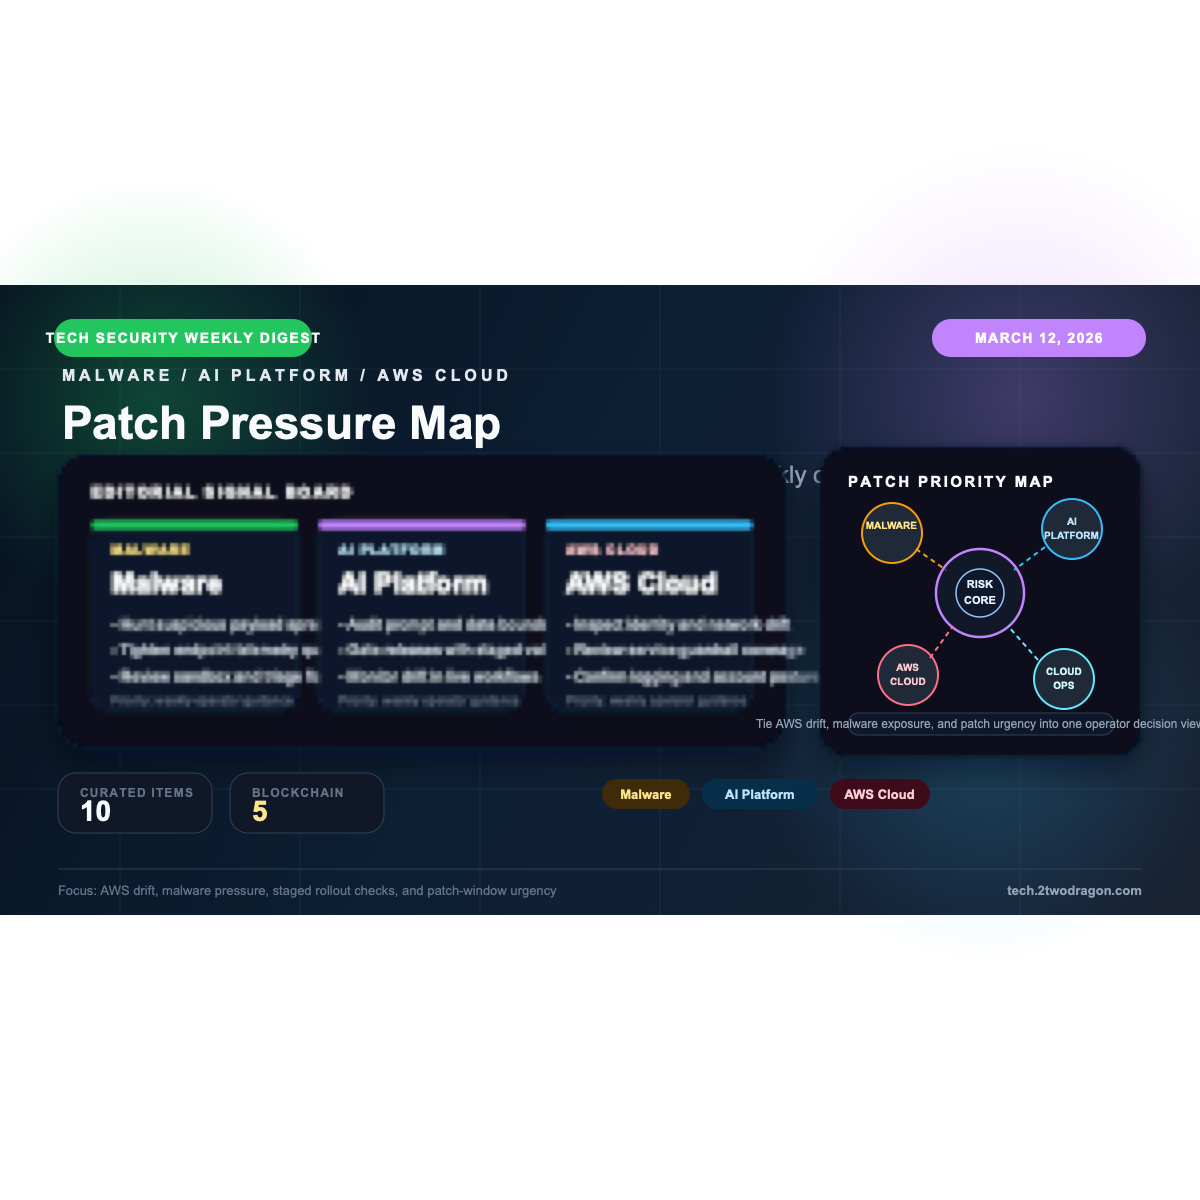
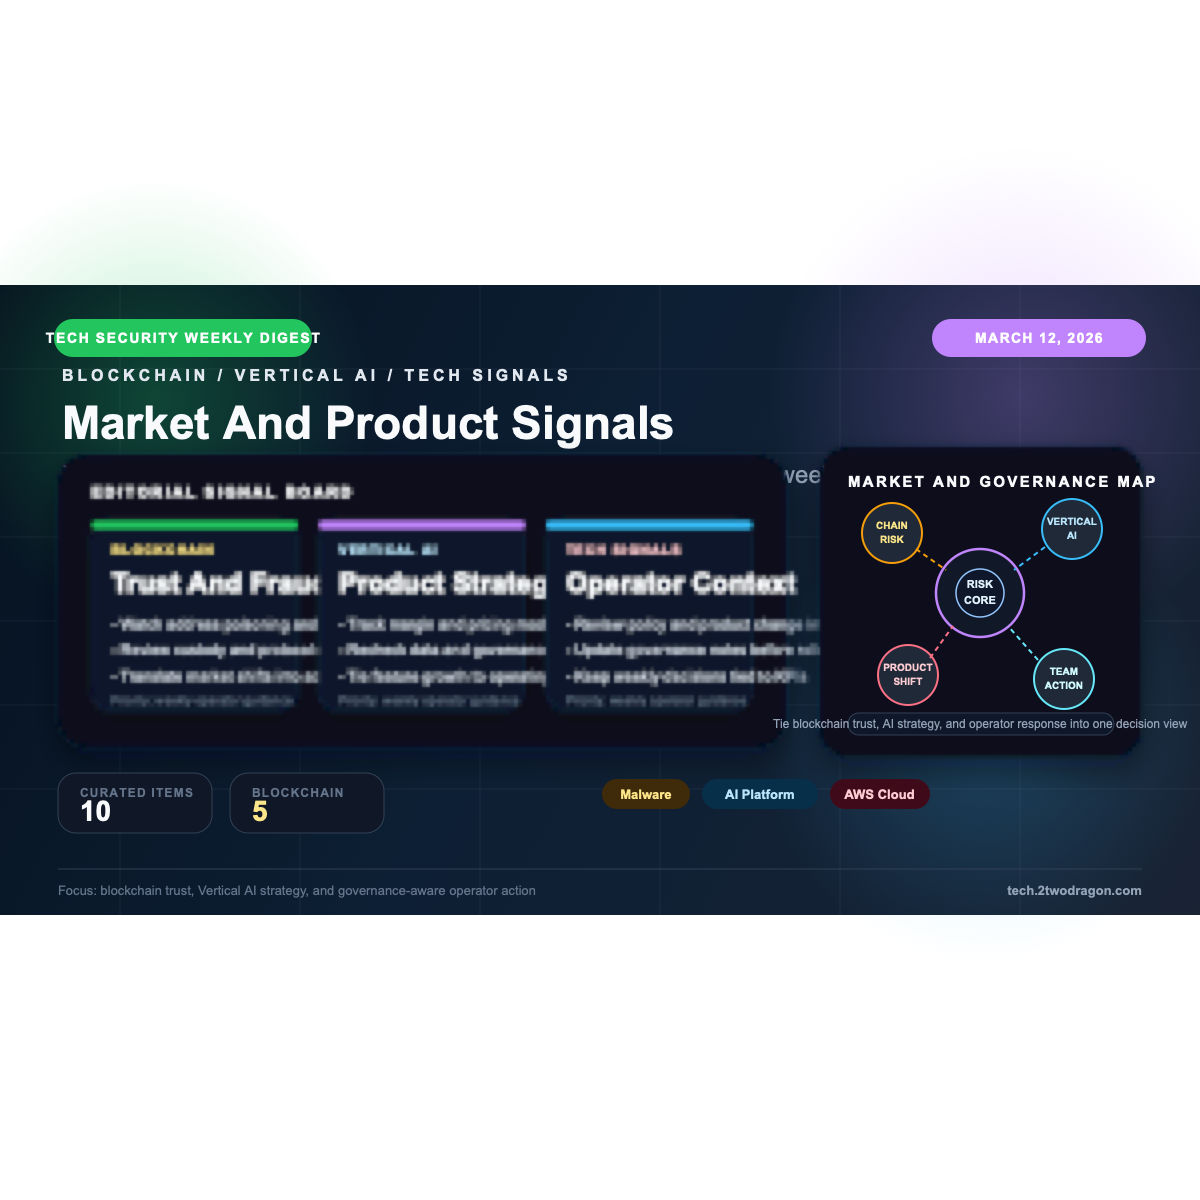
fix: align March 12 digest title and cover story

diff --git a/_posts/2026-03-12-Tech_Security_Weekly_Digest_AI_Malware_AWS_Patch.md b/_posts/2026-03-12-Tech_Security_Weekly_Digest_AI_Malware_AWS_Patch.md
@@ -1,24 +1,24 @@
 ---
 layout: post
-title: "기술·보안 주간 다이제스트: 블록체인, AI, 기술 동향"
+title: "기술·보안 주간 다이제스트: 블록체인 신뢰 리스크, Vertical AI 전략, 기술 동향"
 date: 2026-03-12 21:46:13 +0900
 categories: [security, devsecops]
-tags: [Security-Weekly, DevSecOps, Cloud-Security, Weekly-Digest, 2026, Rust, AI, Blockchain, DeFi]
-excerpt: "2026년 03월 12일 주요 보안/기술 뉴스 10건 - Rust, AI, Blockchain"
-description: "2026년 03월 12일 보안 뉴스: Cointelegraph, CoinDesk 등 10건. Rust, AI, Blockchain, DeFi 관련 DevSecOps 실무 위협 분석 및 대응 가이드."
-keywords: [Security-Weekly, DevSecOps, Cloud-Security, Weekly-Digest, 2026, Rust, AI, Blockchain]
+tags: [Security-Weekly, DevSecOps, Cloud-Security, Weekly-Digest, 2026, Blockchain, Vertical-AI, Tech, DeFi]
+excerpt: "2026년 03월 12일 주요 보안/기술 뉴스 10건 - Blockchain, Vertical AI, Tech"
+description: "2026년 03월 12일 보안 뉴스: Cointelegraph, CoinDesk, GeekNews 등 10건. 블록체인 시장 동향, Vertical AI, 기술 이슈를 운영 리스크 기준으로 정리한 DevSecOps 실무 가이드."
+keywords: [Security-Weekly, DevSecOps, Cloud-Security, Weekly-Digest, 2026, Blockchain, Vertical-AI, Tech]
 author: Twodragon
 comments: true
 image: /assets/images/2026-03-12-Tech_Security_Weekly_Digest_AI_Malware_AWS_Patch.svg
-image_alt: "Tech Security Weekly Digest March 12 2026 Rust AI Blockchain"
+image_alt: "Tech Security Weekly Digest March 12 2026 Blockchain Vertical AI Tech"
 toc: true
 ---
 
 {% include ai-summary-card.html
-  title='기술·보안 주간 다이제스트: 블록체인, AI, 기술 동향'
+  title='기술·보안 주간 다이제스트: 블록체인 신뢰 리스크, Vertical AI 전략, 기술 동향'
   categories_html='<span class="category-tag security">보안</span> <span class="category-tag devsecops">DevSecOps</span>'
-  tags_html='<span class="tag">Security-Weekly</span> <span class="tag">DevSecOps</span> <span class="tag">Cloud-Security</span> <span class="tag">Weekly-Digest</span> <span class="tag">2026</span> <span class="tag">Rust</span> <span class="tag">AI</span> <span class="tag">Blockchain</span>'
-  highlights_html='<li><strong>포인트 1</strong>: 2026년 03월 12일 주요 보안/기술 뉴스 10건 - Rust, AI, Blockchain</li> <li><strong>포인트 2</strong>: 실무 관점에서 영향 범위와 우선순위를 함께 점검해야 합니다</li> <li><strong>포인트 3</strong>: 운영 절차와 검증 기준을 문서화해 재현 가능한 적용 체계를 유지해야 합니다</li>'
+  tags_html='<span class="tag">Security-Weekly</span> <span class="tag">DevSecOps</span> <span class="tag">Cloud-Security</span> <span class="tag">Weekly-Digest</span> <span class="tag">2026</span> <span class="tag">Blockchain</span> <span class="tag">Vertical-AI</span> <span class="tag">Tech</span> <span class="tag">DeFi</span>'
+  highlights_html='<li><strong>포인트 1</strong>: 블록체인 정책·시장 뉴스와 Vertical AI 논의가 함께 등장해 제품 전략과 운영 통제의 동시 점검이 필요합니다</li> <li><strong>포인트 2</strong>: 단기적으로는 지갑/계정 보호, 서드파티 의존성 점검, 정책 변화 모니터링이 우선순위입니다</li> <li><strong>포인트 3</strong>: 기술 뉴스는 보안 이슈 자체보다 향후 운영 모델과 거버넌스 변화의 선행지표로 해석해야 합니다</li>'
   period='2026-03-12 (24시간)'
   audience='보안/클라우드/플랫폼 엔지니어 및 기술 의사결정자'
 %}
@@ -58,16 +58,16 @@ toc: true
 
 ## 경영진 브리핑
 
-- 이번 주기는 취약점 대응과 탐지 체계 운영이 동시에 요구되며, 노출 자산 우선순위 기반의 실행이 필요합니다.
-- 단기적으로는 패치 SLA 준수, 고위험 자산 모니터링, 탐지 룰 최신화가 가장 높은 개선 효과를 제공합니다.
+- 이번 주기는 직접적인 취약점 경보보다 블록체인 시장 변화와 AI 제품 전략 변화가 운영 통제에 미치는 영향을 먼저 읽어내는 것이 중요합니다.
+- 단기적으로는 고위험 지갑/계정 보호, 서드파티·프로토콜 의존성 점검, 정책 변화 모니터링 체계를 정비하는 것이 가장 높은 개선 효과를 제공합니다.
 
 ## 위험 스코어카드
 
 | 영역 | 현재 위험도 | 즉시 조치 |
 |------|-------------|-----------|
-| 위협 대응 | Medium | 인터넷 노출 자산 점검 및 고위험 항목 우선 패치 |
-| 탐지/모니터링 | High | SIEM/EDR 경보 우선순위 및 룰 업데이트 |
-| 운영 복원력 | Medium | 백업/복구 및 사고 대응 절차 리허설 |
+| 시장/정책 변화 | Medium | 블록체인 정책·시장 이벤트가 서비스 운영과 고객 행태에 주는 영향 평가 |
+| 지갑/계정 보호 | High | 주소 오염, 피싱, 관리 계정 접근정책 재검증 |
+| 운영 복원력 | Medium | 신기술 도입 이슈를 운영 가이드와 대응 절차에 반영 |
 
 ![Blockchain Web3 News Section Banner](/assets/images/section-blockchain.svg)
 
@@ -153,9 +153,21 @@ toc: true
 
 | 트렌드 | 관련 뉴스 수 | 주요 키워드 |
 |--------|-------------|------------|
-| **AI/ML** | 5건 | 신뢰 지갑 사기 탐지, 예측시장 기반 블록체인, Vertical AI 시장 분석 |
+| **Blockchain / DeFi** | 5건 | 주소 오염 방지, 예측시장, Solana 생태계, 토큰화 증권 |
+| **Vertical AI / Product Strategy** | 2건 | Vertical AI 시장 재편, 앱 구독 모델 변화 |
+| **Tech / Governance** | 1건 | 공공 정책 변화와 기술 서비스 운영 영향 |
 
-이번 주기의 핵심 트렌드는 **AI/ML**(5건)입니다. 신뢰 지갑 사기 탐지 기능 강화, 블록체인 기반 예측시장 정책 논의, Vertical AI 시장 재편 이슈가 주요 흐름으로 확인됩니다.
+이번 주기의 핵심은 **블록체인 서비스의 신뢰 확보**와 **Vertical AI 확산에 따른 제품/운영 전략 재조정**입니다. Cointelegraph와 CoinDesk 기사들은 주소 오염 방지, 예측시장, 토큰화 증권처럼 시장 확대와 사기 대응이 동시에 요구되는 흐름을 보여주고 있습니다. GeekNews의 Vertical AI 관련 기사들은 기술 확산 자체보다 수익 모델, 운영 거버넌스, 고객 데이터 경계 설정이 경쟁력의 핵심으로 이동하고 있음을 시사합니다.
+
+### 관찰 포인트
+
+- 블록체인 영역은 취약점 자체보다 **신뢰 손상 시나리오**가 더 빠르게 확산됩니다. 주소 오염, 가짜 거래 유도, 지갑 피싱은 기술적 결함이 없어도 운영 부주의만으로 피해가 발생할 수 있습니다.
+- Vertical AI 논의는 단순 기능 경쟁보다 **도메인 특화 데이터와 운영 통제**가 핵심 경쟁력이 되는 방향으로 움직이고 있습니다. 제품팀은 모델 성능과 함께 데이터 사용 경계, 요금 정책, 고객 지원 절차를 같이 설계해야 합니다.
+
+### 실무 시사점
+
+- 보안팀은 블록체인/AI 관련 이슈를 각각 분리하지 말고, **서비스 신뢰도 관리**라는 하나의 운영 관점으로 묶어 주간 보고에 반영하는 것이 좋습니다.
+- 플랫폼팀은 기능 출시 전 검토 항목에 "서드파티 의존성", "지갑/계정 보호", "정책 변화 영향"을 포함해 시장 이벤트가 기술 운영에 주는 영향을 빠르게 추적해야 합니다.
 
 ---
 
@@ -164,36 +176,36 @@ toc: true
 | 우선순위 | 핵심 과제 | 기대 효과 |
 |----------|-----------|-----------|
 | P0 | 고위험 지갑/계정 접근통제 재검증 | 즉시 악용 가능 구간 축소 |
-| P1 | 블록체인/AI 연계 서비스 위협 모델 업데이트 | 신규 위협 시나리오 대응력 향상 |
-| P2 | 운영 가이드 및 대응 절차 정기 리허설 | 장애 및 침해 대응 표준화 |
+| P1 | 블록체인/AI 연계 서비스 위협 모델과 의존성 맵 업데이트 | 신규 위협 시나리오 대응력 향상 |
+| P2 | 시장/정책 변화가 서비스 운영 KPI에 주는 영향 추적 | 제품 전략과 운영 통제의 정렬 유지 |
 
-이번 주기는 보안 이슈 건수 자체보다 **운영 절차의 일관성**이 성패를 좌우하는 구간입니다. 특히 블록체인 서비스와 AI 기능이 결합된 워크로드는 변경 주기가 빠르기 때문에, 보안팀과 플랫폼팀이 동일한 기준으로 배포 전·후 점검을 수행해야 합니다. 탐지 규칙 업데이트, 접근 권한 검토, 복구 리허설을 하나의 주간 루틴으로 묶어 관리하면 실무 효율과 대응 속도를 동시에 높일 수 있습니다.
+이번 주기는 보안 사고 건수보다 **시장 변화와 기술 전략 변화에 운영팀이 얼마나 빨리 반응하느냐**가 중요합니다. 특히 블록체인 서비스와 AI 기능이 결합된 워크로드는 제품 변화 속도가 빠르기 때문에, 보안팀과 플랫폼팀이 동일한 기준으로 서드파티 의존성, 권한 스코프, 데이터 경계를 함께 검증해야 합니다. 정책 변화 모니터링, 지갑/계정 보호, 배포 후 KPI 점검을 하나의 주간 루틴으로 묶어 관리하면 실무 효율과 대응 속도를 동시에 높일 수 있습니다.
 
 ---
 
-## 실무 체크리스트
+## 5. 실무 체크리스트
 
 ### P0 (즉시)
 
-- [ ] 이번 주기 주요 보안 이슈 영향도 분석
+- [ ] 이번 주기 주요 블록체인/AI 이슈가 서비스 운영에 미치는 영향도 분석
 - [ ] 고위험 지갑/관리자 계정 MFA 예외 여부 점검
-- [ ] 외부 노출 엔드포인트 최신 위협 룰 적용 여부 확인
+- [ ] 주소 오염, 피싱, 거래 모니터링 관련 최신 탐지 룰 적용 여부 확인
 
 ### P1 (7일 내)
 
-- [ ] 이번 주기 기술 동향 기반 보안 정책 검토
-- [ ] AI 기능 연계 서비스의 데이터 접근 경로 재검토
+- [ ] 이번 주기 기술 동향 기반 보안·거버넌스 정책 검토
+- [ ] AI 기능 연계 서비스의 데이터 접근 경로와 수익 모델 변경 영향 재검토
 - [ ] 블록체인 관련 서드파티 의존성 및 권한 스코프 점검
 
 ### P2 (30일 내)
 
 - [ ] 암호화폐/블록체인 관련 컴플라이언스 점검
 - [ ] 사고 대응 플레이북 업데이트 및 모의훈련 반영
-- [ ] 주간 보고 KPI(탐지/복구/조치 리드타임) 대시보드 정비
+- [ ] 주간 보고 KPI(탐지/복구/조치 리드타임, 정책 변경 영향) 대시보드 정비
 
 ---
 
-## 참고 자료
+## 6. 참고 자료
 
 | 리소스 | 링크 |
 |--------|------|
